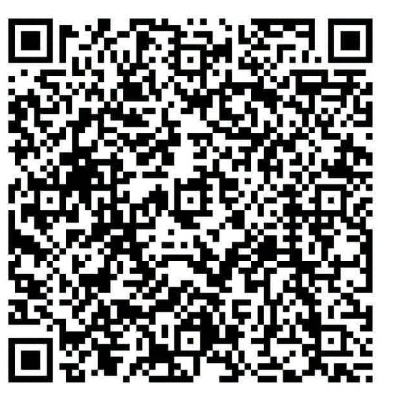
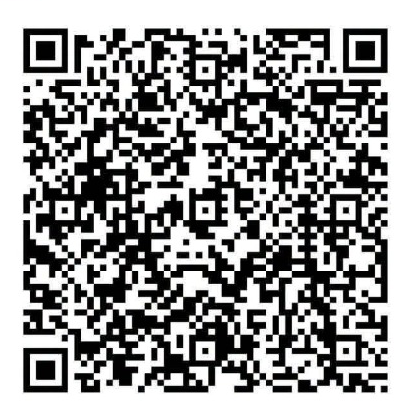
style: show clean scannable CIH QR code alone in Support bank transfer card

diff --git a/components/layout/SupportPage.tsx b/components/layout/SupportPage.tsx
@@ -8,24 +8,12 @@ import {
   Copy,
   Check,
   Landmark,
-  User,
-  Hash,
-  Globe,
   ExternalLink,
   ShieldCheck,
 } from 'lucide-react'
 
 const PAYPAL_EMAIL = 'yahyanaim2001@gmail.com'
 const PAYPAL_LINK = `https://www.paypal.com/myaccount/transfer/homepage/pay?recipient=${PAYPAL_EMAIL}`
-
-const BANK = {
-  holder: 'MONSIEUR YAHIA NAIM',
-  account: '3505240211002500',
-  rib: '230 590 3505240211002500 72',
-  iban: 'MA64 2305 9035 0524 0211 0025 0072',
-  swift: 'CIHMMAMC',
-  bank: 'CIH Bank',
-}
 
 function CopyRow({
   icon,
@@ -87,7 +75,7 @@ export function SupportPage() {
       {/* Subtle AI Hunt ambient accent */}
       <div className="pointer-events-none absolute left-1/2 top-0 -z-10 h-72 w-[38rem] -translate-x-1/2 rounded-full bg-brand-orange/10 blur-[120px]" />
 
-      <div className="container-page mx-auto max-w-5xl">
+      <div className="container-page mx-auto max-w-4xl">
         {/* Hero */}
         <div className="mx-auto max-w-2xl text-center">
           <span className="inline-flex items-center gap-1.5 rounded-full border border-brand-orange/30 bg-brand-orange/10 px-3 py-1 text-xs font-semibold text-brand-orange">
@@ -104,9 +92,9 @@ export function SupportPage() {
         </div>
 
         {/* Payment Methods */}
-        <div className="mt-8 grid gap-5 lg:grid-cols-5">
+        <div className="mt-8 grid gap-5 sm:grid-cols-2">
           {/* PayPal */}
-          <div className="flex flex-col rounded-2xl border border-border bg-card p-6 shadow-sm lg:col-span-2">
+          <div className="flex flex-col rounded-2xl border border-border bg-card p-6 shadow-sm">
             <div className="flex items-center gap-2.5">
               <div className="flex h-10 w-10 items-center justify-center rounded-xl bg-brand-orange/10 text-brand-orange">
                 <Mail className="h-5 w-5" />
@@ -144,76 +132,42 @@ export function SupportPage() {
             </div>
           </div>
 
-          {/* CIH Bank Transfer */}
-          <div className="flex flex-col rounded-2xl border border-border bg-card p-6 shadow-sm lg:col-span-3">
-            <div className="flex items-center justify-between gap-3">
+          {/* CIH Bank QR */}
+          <div className="flex flex-col items-center justify-between rounded-2xl border border-border bg-card p-6 text-center shadow-sm">
+            <div className="flex w-full items-center justify-between gap-3 text-left">
               <div className="flex items-center gap-2.5">
                 <div className="flex h-10 w-10 items-center justify-center rounded-xl bg-brand-orange/10 text-brand-orange">
                   <Landmark className="h-5 w-5" />
                 </div>
                 <div>
                   <h2 className="font-heading text-base font-bold text-foreground">
-                    Bank Transfer — CIH Bank
+                    CIH Bank Transfer
                   </h2>
                   <p className="text-xs text-muted-foreground">
-                    Morocco (RIB) or International (IBAN / SWIFT)
+                    Scan QR with CIH Mobile
                   </p>
                 </div>
               </div>
-              <span className="hidden items-center gap-1 rounded-full border border-border bg-muted/60 px-2.5 py-1 text-[11px] font-medium text-muted-foreground sm:inline-flex">
+              <span className="inline-flex items-center gap-1 rounded-full border border-border bg-muted/60 px-2.5 py-1 text-[11px] font-medium text-muted-foreground">
                 <ShieldCheck className="h-3.5 w-3.5 text-brand-orange" />
                 Verified
               </span>
             </div>
 
-            <div className="mt-5 grid gap-4 sm:grid-cols-[1fr_auto] sm:items-stretch">
-              <div className="space-y-2">
-                <CopyRow
-                  icon={<User className="h-3.5 w-3.5" />}
-                  label="Account Holder"
-                  value={BANK.holder}
-                />
-                <CopyRow
-                  icon={<Landmark className="h-3.5 w-3.5" />}
-                  label="Bank · SWIFT Code"
-                  value={`${BANK.bank} · ${BANK.swift}`}
-                />
-                <CopyRow
-                  icon={<Hash className="h-3.5 w-3.5" />}
-                  label="Account Number"
-                  value={BANK.account}
-                />
-                <CopyRow
-                  icon={<Hash className="h-3.5 w-3.5" />}
-                  label="RIB"
-                  value={BANK.rib}
-                />
-                <CopyRow
-                  icon={<Globe className="h-3.5 w-3.5" />}
-                  label="IBAN"
-                  value={BANK.iban}
-                />
-              </div>
-
-              {/* QR Code Card */}
-              <div className="flex flex-col items-center justify-center rounded-2xl border border-border bg-muted/30 p-4 text-center sm:w-44">
-                <div className="overflow-hidden rounded-xl bg-white p-2 shadow-sm ring-1 ring-black/5">
-                  <Image
-                    src="/cih-qr.png"
-                    alt="CIH Bank QR Code for MONSIEUR YAHIA NAIM"
-                    width={136}
-                    height={136}
-                    className="h-32 w-32 object-contain"
-                  />
-                </div>
-                <p className="mt-2.5 text-xs font-semibold text-foreground">
-                  Scan with CIH Mobile
-                </p>
-                <p className="mt-0.5 text-[11px] leading-snug text-muted-foreground">
-                  Instant local transfer
-                </p>
-              </div>
+            <div className="my-5 overflow-hidden rounded-2xl bg-white p-3.5 shadow-sm ring-1 ring-black/5">
+              <Image
+                src="/cih-qr.png"
+                alt="CIH Bank QR Code"
+                width={184}
+                height={184}
+                className="h-44 w-44 object-contain"
+              />
             </div>
+
+            <p className="text-xs text-muted-foreground">
+              Open <span className="font-medium text-foreground">CIH Mobile</span> and scan the QR
+              code to transfer instantly.
+            </p>
           </div>
         </div>
 
